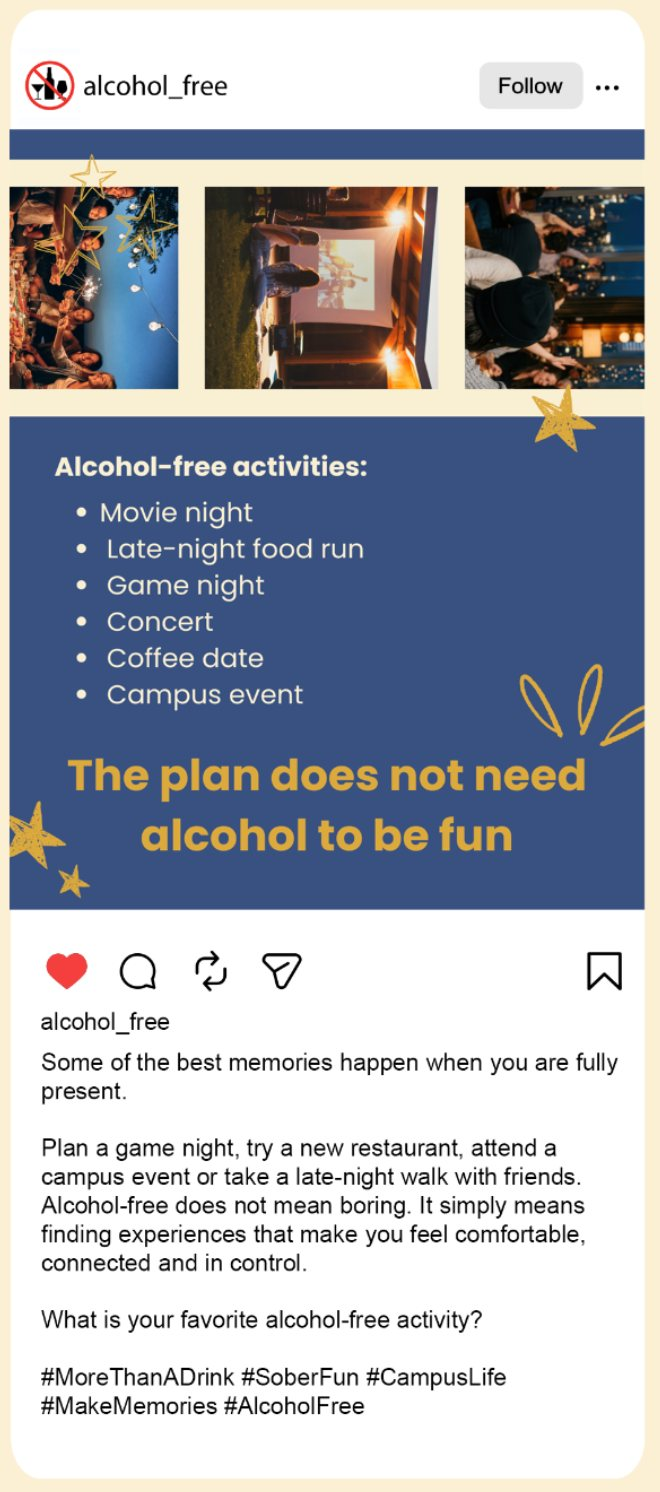
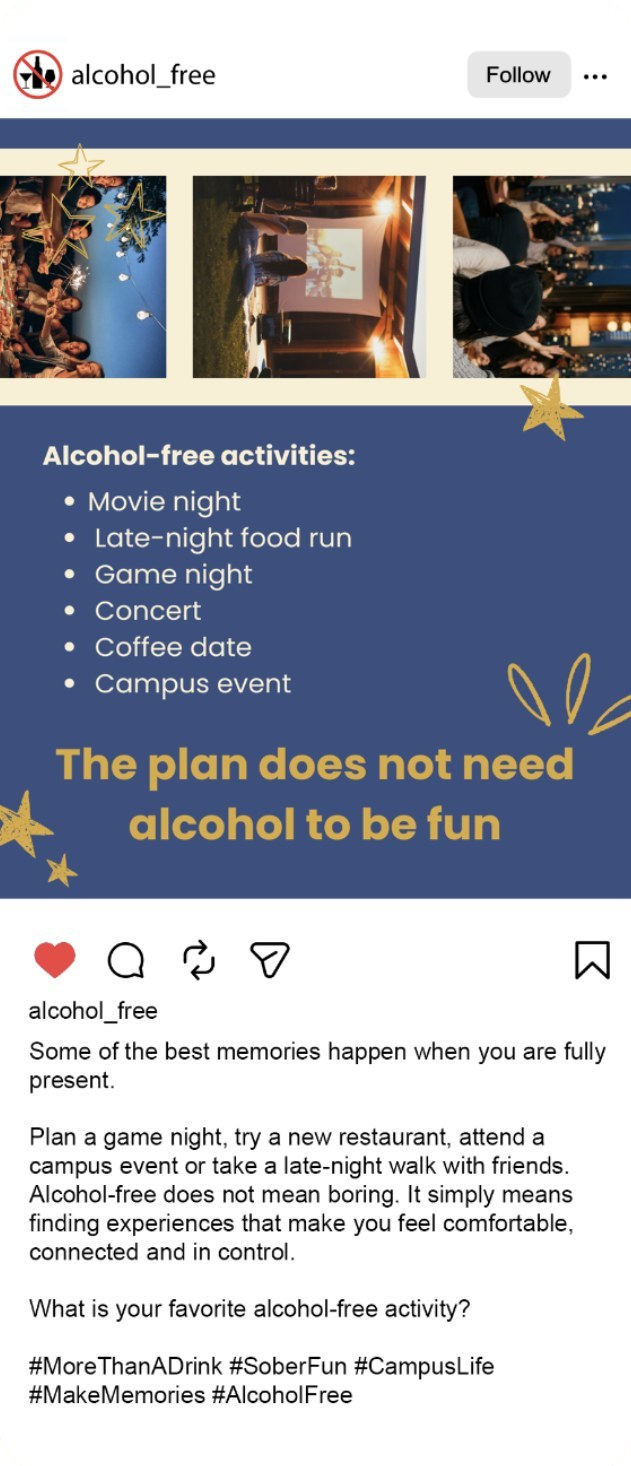
Stickers and social posts: remove the cream backgrounds

Changed region(s): [[0.0, 0.0, 1.0, 1.0]]

diff --git a/night.html b/night.html
@@ -206,9 +206,9 @@
         <p>A set of stickers gives the campaign a lasting physical presence. Scenes of crowds and late-night hangouts in the blue and gold palette feel like authentic nightlife merch, and conversational copy keeps the message relatable rather than restrictive, turning an educational campaign into something students want to share.</p>
       </div>
       <ul class="slides three">
-        <li><img src="assets/night/sticker-1.jpg" alt="Sticker: Less hangover, more hang out" loading="lazy" width="674" height="836"></li>
-        <li><img src="assets/night/sticker-2.jpg" alt="Sticker: Last night is a movie only when you can remember it" loading="lazy" width="680" height="840"></li>
-        <li><img src="assets/night/sticker-3.jpg" alt="Sticker: Forgetting your ID isn't the end of the world" loading="lazy" width="682" height="850"></li>
+        <li><img src="assets/night/sticker-1.jpg" alt="Sticker: Less hangover, more hang out" loading="lazy" width="665" height="826"></li>
+        <li><img src="assets/night/sticker-2.jpg" alt="Sticker: Last night is a movie only when you can remember it" loading="lazy" width="664" height="826"></li>
+        <li><img src="assets/night/sticker-3.jpg" alt="Sticker: Forgetting your ID isn't the end of the world" loading="lazy" width="665" height="826"></li>
       </ul>
       <figure class="frame">
         <img src="assets/night/sticker-mockup.jpg" alt="Two campaign stickers on a laptop lid" loading="lazy" width="1800" height="1014">
@@ -223,9 +223,9 @@
         <p>An Instagram carousel translates the campaign into a digital space. It balances the reality of campus binge drinking with a positive, actionable tone, offering realistic alternatives to alcohol-centric plans, while the shared blue and gold palette keeps the brand recognizable across every medium.</p>
       </div>
       <ul class="slides three">
-        <li><img src="assets/night/social-1.jpg" alt="Instagram post: Make memories you'll actually remember" loading="lazy" width="654" height="1492"></li>
-        <li><img src="assets/night/social-2.jpg" alt="Instagram post listing alcohol-free activities: the plan does not need alcohol to be fun" loading="lazy" width="660" height="1492"></li>
-        <li><img src="assets/night/social-3.jpg" alt="Instagram post: 25% of full-time college students reported heavy drinking in the last month" loading="lazy" width="654" height="1486"></li>
+        <li><img src="assets/night/social-1.jpg" alt="Instagram post: Make memories you'll actually remember" loading="lazy" width="630" height="1466"></li>
+        <li><img src="assets/night/social-2.jpg" alt="Instagram post listing alcohol-free activities: the plan does not need alcohol to be fun" loading="lazy" width="631" height="1466"></li>
+        <li><img src="assets/night/social-3.jpg" alt="Instagram post: 25% of full-time college students reported heavy drinking in the last month" loading="lazy" width="630" height="1466"></li>
       </ul>
     </section>
 
